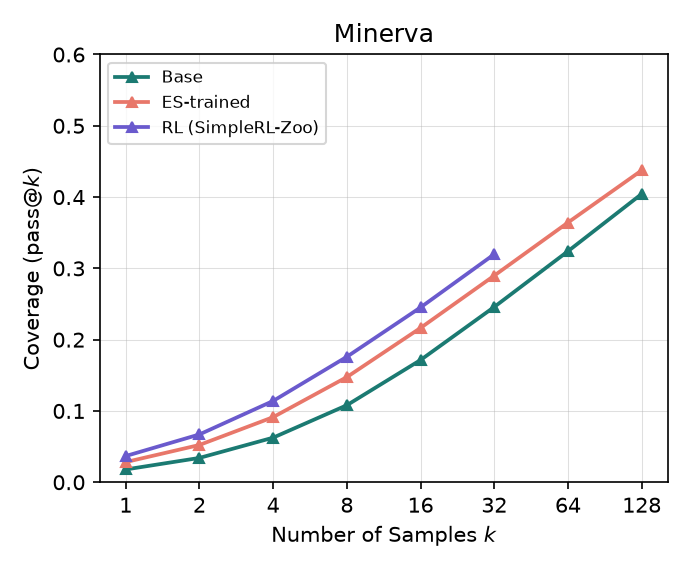
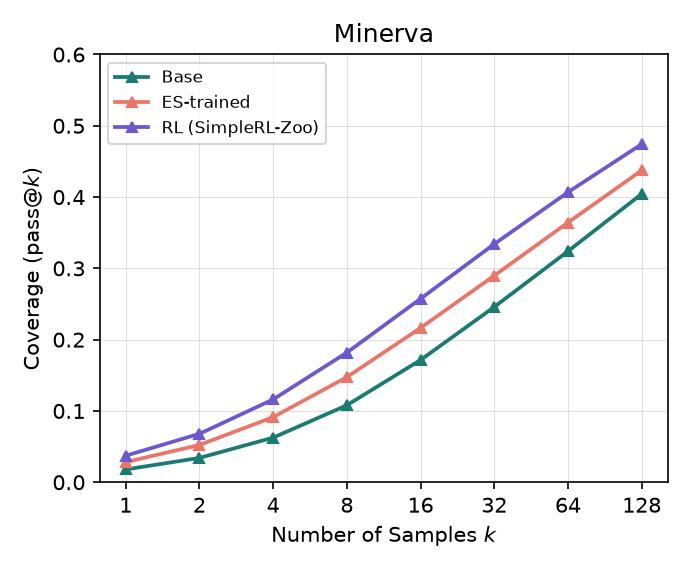
Extend RL arm to full k budget (512/128, matching base/ES) — result overturns partial signal
The k<=32 partial check suggested RL narrows more than ES on every
benchmark. At the full budget that doesn't hold: RL narrows LESS than ES
on 3 of 4 benchmarks and matches or exceeds ES's net gain on all 4.
No consistent low-k-favors-RL/high-k-favors-base crossover shows up
either -- it varies per benchmark (AIME24: RL's lead grows with k;
MATH500: RL starts behind ES and crosses over; Minerva: RL ahead
throughout; OlympiadBench: near-tied).

Rewrote the Results section to report this honestly rather than force-fit
the earlier partial-data narrative -- this isn't a compute-matched
comparison (SimpleRL-Zoo is fully trained; this ES run is 50 iterations),
so it doesn't settle the original hypothesis either way. Also includes
results/iter50/rl/ (~1GB raw generations) force-added despite the
gitignore rule, per explicit request, for convenience -- planned cleanup
noted in Later.

diff --git a/README.md b/README.md
@@ -178,46 +178,67 @@ gaining 13.3%. Combined with no pass@k crossover on any benchmark, this is
 consistent with genuine capacity expansion, not the sampling-efficiency-for-
 ceiling tradeoff RLVR typically shows.
 
-### Base vs. ES vs. RL (SimpleRL-Zoo) — partial, k≤32
+### Base vs. ES vs. RL (SimpleRL-Zoo) — full budget
 
 Added [hkust-nlp/Qwen-2.5-1.5B-SimpleRL-Zoo](https://huggingface.co/hkust-nlp/Qwen-2.5-1.5B-SimpleRL-Zoo)
 (a real, published GRPO-trained model, same `Qwen2.5-1.5B` base) as a third
 arm, to check the ES-vs-RLVR hypothesis head-to-head rather than only against
-the source paper's qualitative description. **RL was only evaluated up to
-k=32** (a deliberately cheap early check — `scripts/run_third_model_eval.sh`'s
-`n_sampling_override`) rather than matching ES/base's full 512/128 budget, so
-the RL curve stops at k=32 in each plot while base/ES continue further right;
-treat this as a partial, not final, result.
+the source paper's qualitative description. RL now matches base/ES's full
+budget exactly (k up to 512 for AIME24, 128 for the rest — an initial cheap
+k≤32 check was run first and superseded by this full run, see git history if
+curious).
 
-Within k≤32, RL's *raw* pass@k is competitive with or slightly ahead of ES on
-3 of 4 benchmarks (SimpleRL-Zoo is a mature, fully-trained public model — our
-ES run is 50 iterations / 3.4hrs, plausibly much less total optimization).
-But the four-way breakdown tells a different story: **RL trades away more of
-base's existing capability than it gains, on every benchmark tested — the
-opposite pattern from ES:**
+**The full-budget result does not confirm the pattern the k≤32 partial check
+suggested.** At the full budget, RL narrows *less* than ES on 3 of 4
+benchmarks, and matches or exceeds ES's net question-coverage gain on all 4:
 
 | Benchmark | ES: narrow / gain / **net** | RL: narrow / gain / **net** |
 |---|---|---|
-| AIME24 | 0.0% / 13.3% / **+13.3** | 13.3% / 3.3% / **−10.0** |
-| MATH500 | 1.4% / 12.0% / **+10.6** | 6.8% / 6.8% / **0.0** |
-| Minerva | 7.0% / 10.3% / **+3.3** | 10.7% / 2.2% / **−8.5** |
-| OlympiadBench | 3.9% / 13.3% / **+9.4** | 10.8% / 6.4% / **−4.4** |
+| AIME24 | 0.0% / 13.3% / **+13.3** | 3.3% / 30.0% / **+26.7** |
+| MATH500 | 1.4% / 12.0% / **+10.6** | 1.2% / 12.6% / **+11.4** |
+| Minerva | 7.0% / 10.3% / **+3.3** | 5.5% / 12.5% / **+7.0** |
+| OlympiadBench | 3.9% / 13.3% / **+9.4** | 3.4% / 12.9% / **+9.5** |
 
 ![AIME24 three-way](results/iter50/aime24_threeway_passk.png) ![MATH500 three-way](results/iter50/math500_threeway_passk.png) ![Minerva three-way](results/iter50/minerva_math_threeway_passk.png) ![OlympiadBench three-way](results/iter50/olympiadbench_threeway_passk.png)
 
-**Important open question:** RL's higher *raw* pass@k at low k combined with
-*more* narrowing relative to base is exactly consistent with the source
-paper's mechanism (RLVR concentrates probability mass on paths it already
-knew, boosting low-k coverage while trading away some existing capability) —
-but we haven't yet evaluated RL at the higher k (128, matching base/ES, or
-further) where the paper's crossover actually shows up. It's unresolved
-whether RL's pass@k curve would plateau/cross below ES-trained's given the
-full budget, or stay ahead throughout. Extending the RL arm to k=128 (same as
-base/ES) is the natural next step to resolve this.
+There's also no consistent "RL ahead at low k, base/ES catch up and overtake
+at high k" crossover — the classic pattern the source paper documents — in
+any of the 4 curves. What actually happens varies per benchmark:
 
-Raw generations for all three arms: `results/iter50/{base,trained,rl}/`
-(gitignored, regenerate with `scripts/run_base_vs_trained_eval.sh` /
-`scripts/run_third_model_eval.sh`).
+- **AIME24**: RL and ES are essentially tied through k≈16, then RL's lead
+  *grows* with k, reaching pass@512 = 50.0% vs ES's 36.7%. The opposite of
+  the paper's expected shape (n=30 questions here, so this curve is the
+  noisiest of the four — a small sample of hard problems where a handful of
+  lucky high-k hits move the numbers a lot).
+- **MATH500**: RL actually starts *below* ES at low k (pass@1: 13.4% vs
+  16.8%), crosses over around k≈16-32, and finishes slightly ahead at k=128
+  (90.0% vs 89.2%) — a real crossover, but inverted from the paper's story.
+- **Minerva**: RL stays above ES at every k from 1 to 128 — gap starts small
+  (+0.9 point at k=1), grows through the mid-range, plateaus around +3.5 to
+  +4.4 points by k≥16 — no crossover either direction.
+- **OlympiadBench**: the two are close throughout (within ±1 point), RL
+  slightly behind at low k, converging to a near-exact tie by k=128.
+
+**Read this carefully — it's not a compute-matched comparison.** SimpleRL-Zoo
+is a mature, fully-trained public model; this project's ES run is 50
+iterations / 3h22m on one 8-GPU box. The full result doesn't support "ES
+preserves capability better than RLVR in general" as cleanly as the k≤32
+partial check suggested — if anything, in this specific (compute-mismatched)
+comparison, RL matches or slightly outperforms ES on capability
+preservation, contrary to the project's original hypothesis. What *does*
+survive from the ES-vs-base section above: ES itself shows no crossover and
+a clean net-positive result relative to the base model on all 4 benchmarks —
+that finding is unaffected by anything here. Whether ES fundamentally beats
+RLVR on capacity preservation remains open; a fair test would need
+compute-matched training (e.g. an RL run capped at a similar wall-clock/FLOP
+budget to this ES run) rather than comparing against an already fully-trained
+public checkpoint.
+
+Raw generations for all three arms: `results/iter50/{base,trained,rl}/`.
+`base`/`trained` are gitignored (regenerate with
+`scripts/run_base_vs_trained_eval.sh`); `results/iter50/rl/` (~1GB) is
+committed as-is for convenience despite the gitignore rule — plan to
+`git rm -r --cached` it in a follow-up cleanup pass.
 
 ## Training dynamics
 
@@ -252,8 +273,13 @@ The ES-trained checkpoint is published at
 
 ## Later
 
-- Extend the RL (SimpleRL-Zoo) arm from k≤32 to the full k=128 budget (see
-  "Important open question" above) — the highest-value next step.
+- The ES-vs-RL comparison above isn't compute-matched (SimpleRL-Zoo is fully
+  trained; this ES run is 50 iterations / 3h22m). A fair test needs an RL
+  baseline capped at similar compute, not a comparison against an already
+  fully-trained public checkpoint — the highest-value next step given the
+  full-budget result didn't confirm the original hypothesis as cleanly as
+  hoped.
 - A fourth arm testing EGGROLL (Sarkar et al., arXiv:2511.16652 — rank-r
-  LoRA-factorized ES, as opposed to `es-at-scale`'s full-rank ES) is planned
-  once the RL comparison above is resolved.
+  LoRA-factorized ES, as opposed to `es-at-scale`'s full-rank ES).
+- Clean up `results/iter50/rl/` out of git history once downloaded locally
+  (see note in Results above).
